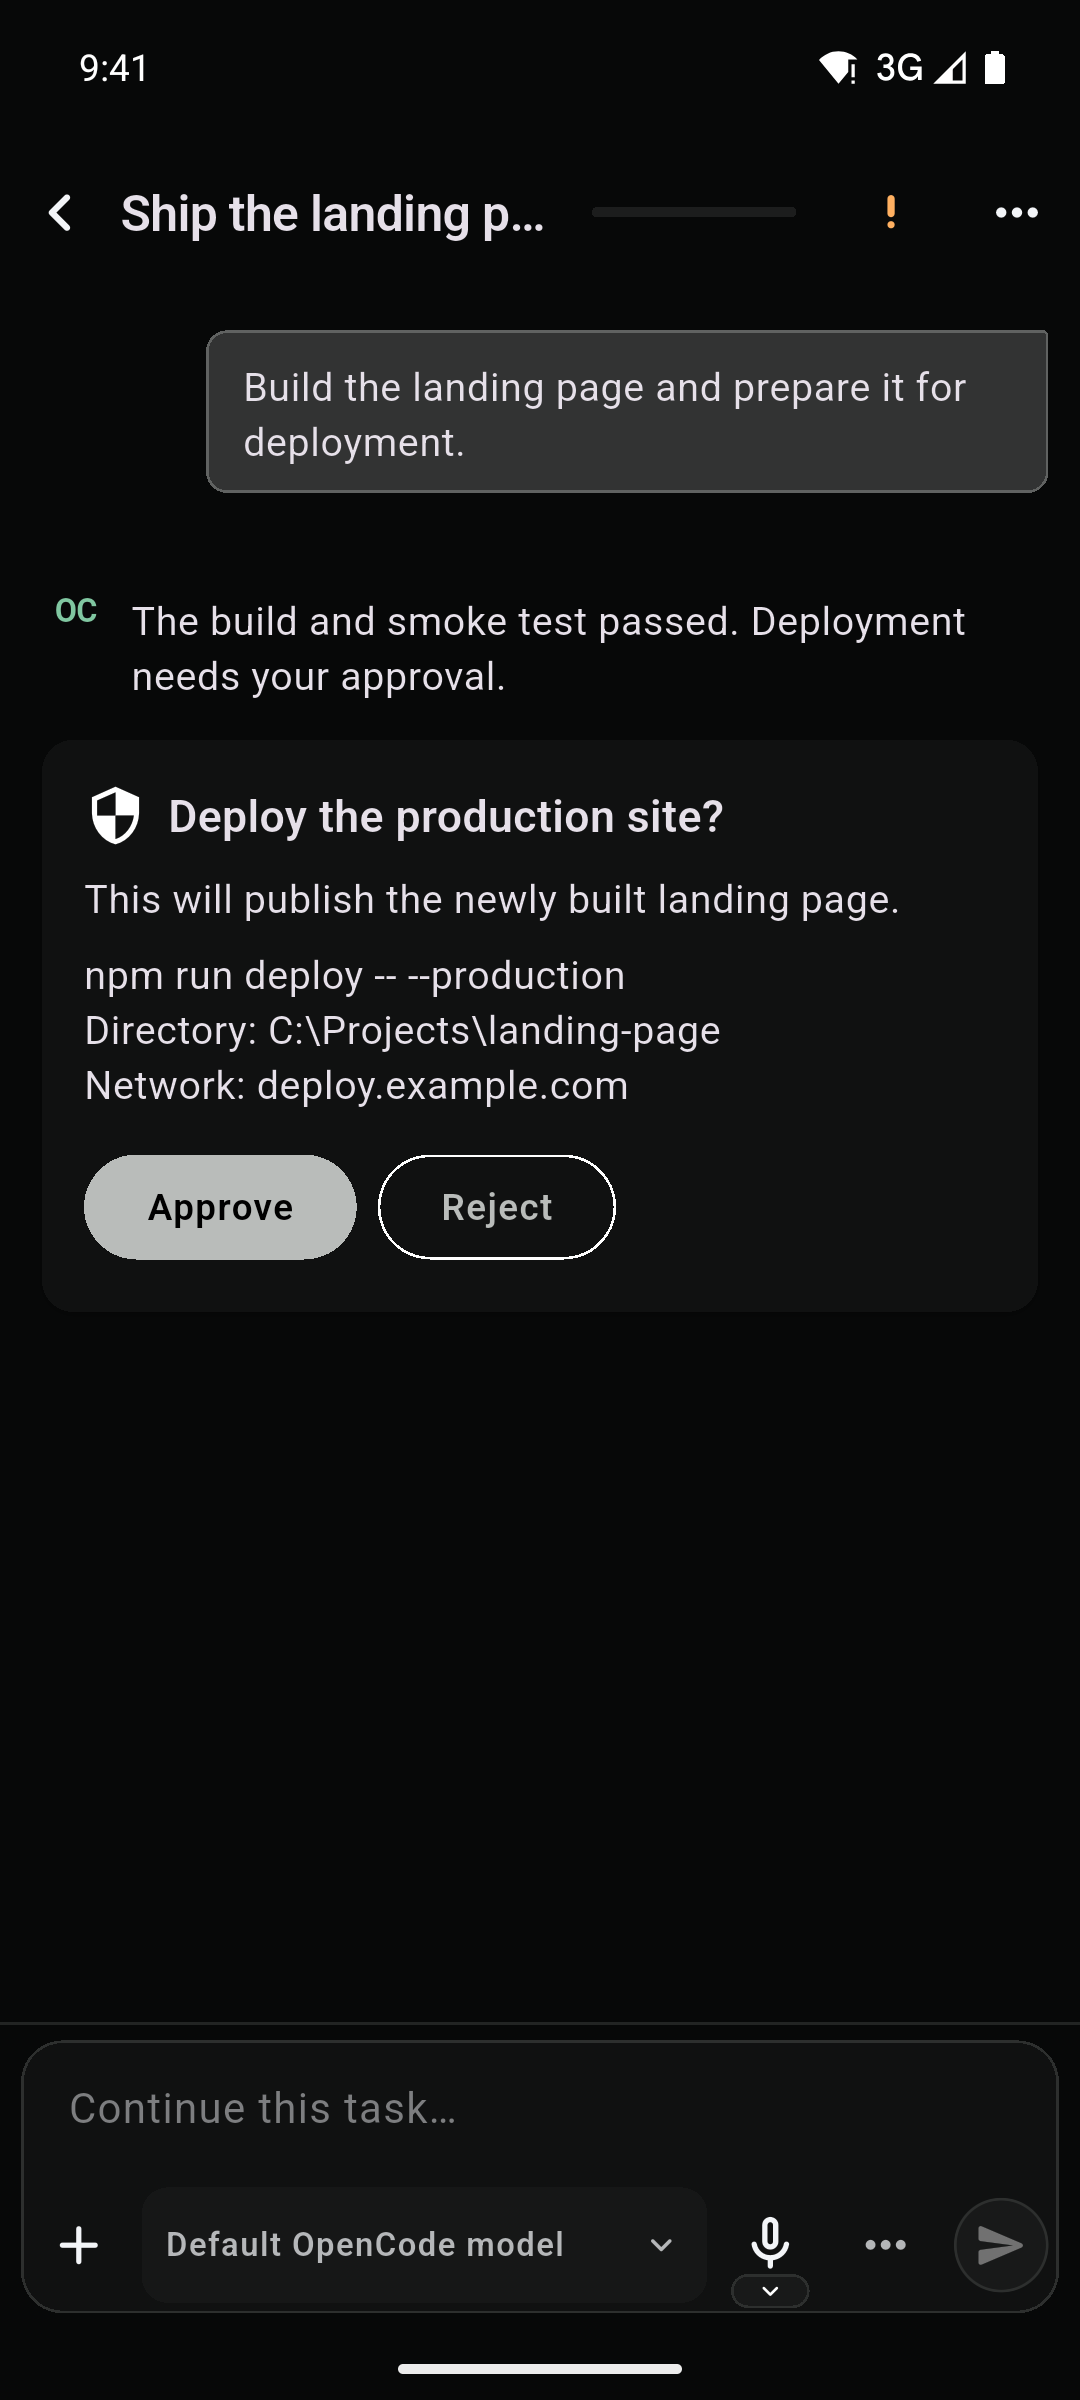
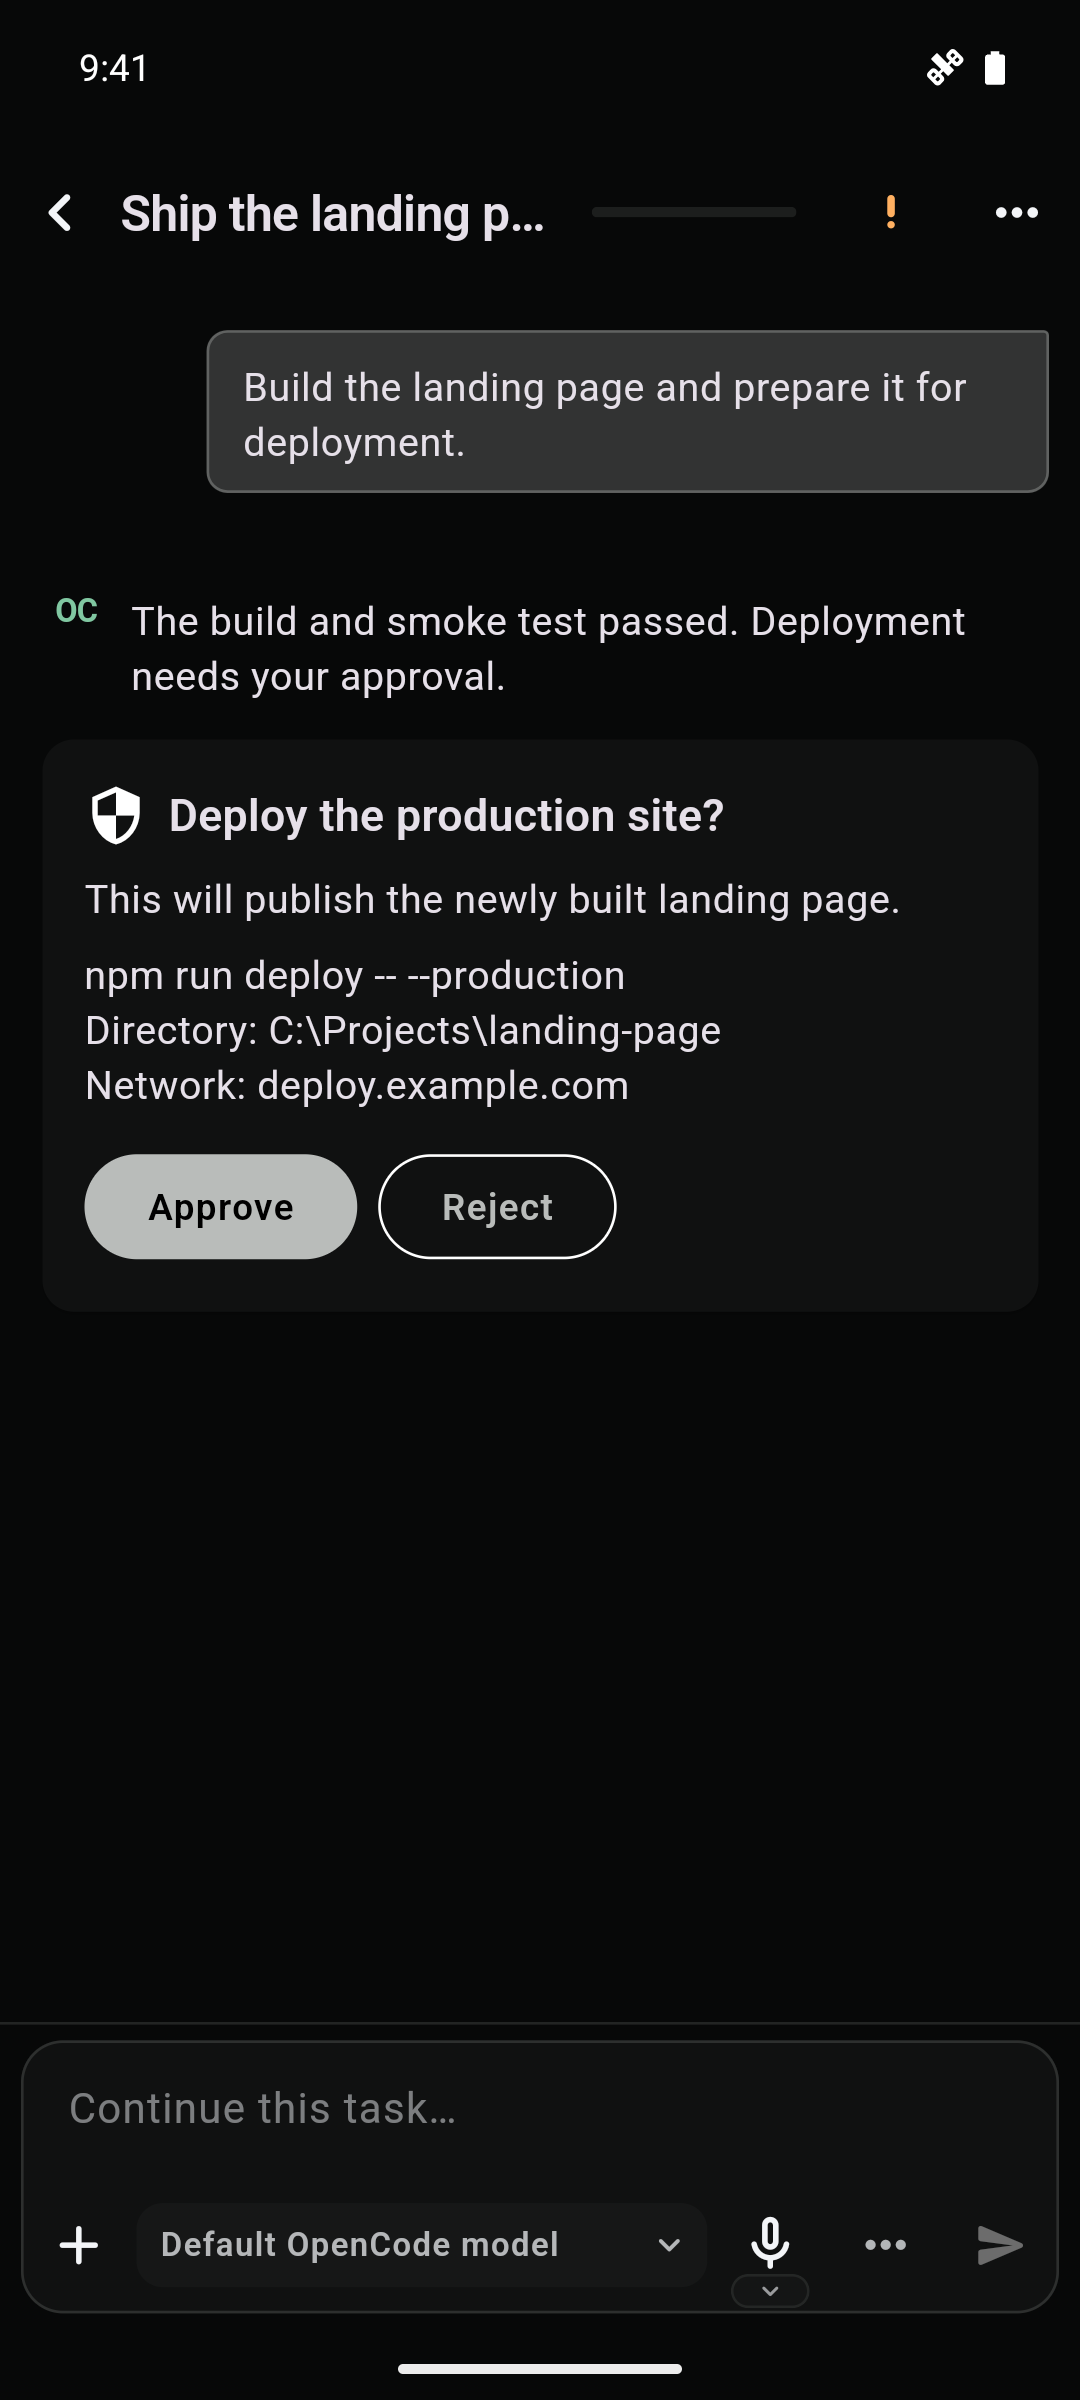
Tighten mobile composer controls and refresh Android preview (#4)

diff --git a/apps/remote_client/lib/src/screens.dart b/apps/remote_client/lib/src/screens.dart
@@ -11672,7 +11672,6 @@ class _SessionScreenState extends State<SessionScreen>
                                                         size: 25),
                                                   ),
                                                 ),
-                                                const SizedBox(width: 2),
                                                 Expanded(
                                                   child:
                                                       _SessionComposerModelControl(
@@ -11912,21 +11911,6 @@ class _SessionScreenState extends State<SessionScreen>
                                                           height: 36,
                                                           alignment:
                                                               Alignment.center,
-                                                          decoration:
-                                                              BoxDecoration(
-                                                            shape:
-                                                                BoxShape.circle,
-                                                            color: sendEnabled ||
-                                                                    _preparingSubmission ||
-                                                                    _sending ||
-                                                                    _interruptingCurrentWork
-                                                                ? visual.accent
-                                                                : visual
-                                                                    .surfaceRaised,
-                                                            border: Border.all(
-                                                                color: visual
-                                                                    .border),
-                                                          ),
                                                           child: _preparingSubmission ||
                                                                   _sending ||
                                                                   _interruptingCurrentWork
@@ -11936,7 +11920,7 @@ class _SessionScreenState extends State<SessionScreen>
                                                                       _WorkingSpinner(
                                                                     size: 17,
                                                                     color: visual
-                                                                        .background,
+                                                                        .accent,
                                                                   ),
                                                                 )
                                                               : Icon(
@@ -11948,7 +11932,7 @@ class _SessionScreenState extends State<SessionScreen>
                                                                   size: 21,
                                                                   color: sendEnabled
                                                                       ? visual
-                                                                          .background
+                                                                          .accent
                                                                       : Theme.of(
                                                                               context)
                                                                           .disabledColor,
@@ -12092,12 +12076,12 @@ class _DictationComposerControl extends StatelessWidget {
                 child: ExcludeSemantics(
                   child: Material(
                     color: sourcePickerEnabled
-                        ? visual.surfaceRaised
+                        ? visual.surfaceRaised.withValues(alpha: .5)
                         : Colors.transparent,
                     shape: StadiumBorder(
                       side: BorderSide(
                         color: sourcePickerEnabled
-                            ? visual.border
+                            ? visual.border.withValues(alpha: .65)
                             : disabledColor.withValues(alpha: .35),
                       ),
                     ),
@@ -12108,7 +12092,12 @@ class _DictationComposerControl extends StatelessWidget {
                       child: Icon(
                         Icons.keyboard_arrow_down_rounded,
                         size: 13,
-                        color: sourcePickerEnabled ? null : disabledColor,
+                        color: sourcePickerEnabled
+                            ? Theme.of(context)
+                                .colorScheme
+                                .onSurface
+                                .withValues(alpha: .6)
+                            : disabledColor,
                       ),
                     ),
                   ),
@@ -14504,49 +14493,52 @@ class _SessionComposerModelControl extends StatelessWidget {
           enabled: modelEnabled,
           onTap: modelEnabled ? onTap : null,
           child: ExcludeSemantics(
-            child: TextButton(
-              key: const Key('model-control'),
-              onPressed: modelEnabled ? onTap : null,
-              style: TextButton.styleFrom(
-                foregroundColor: subdued,
-                disabledForegroundColor: subdued,
-                backgroundColor: visual.surfaceRaised.withValues(alpha: .7),
-                padding: const EdgeInsets.symmetric(horizontal: 9),
-                minimumSize: const Size(0, 44),
-                tapTargetSize: MaterialTapTargetSize.shrinkWrap,
-                shape: RoundedRectangleBorder(
-                    borderRadius: BorderRadius.circular(10)),
-              ),
-              child: Row(
-                children: <Widget>[
-                  Expanded(
-                    child: Text.rich(
-                      TextSpan(
-                        children: <InlineSpan>[
-                          TextSpan(
-                            text: modelLabel,
-                            style: const TextStyle(fontWeight: FontWeight.w600),
-                          ),
-                          if (reasoningVisible)
+            child: Center(
+              child: TextButton(
+                key: const Key('model-control'),
+                onPressed: modelEnabled ? onTap : null,
+                style: TextButton.styleFrom(
+                  foregroundColor: subdued,
+                  disabledForegroundColor: subdued,
+                  backgroundColor: visual.surfaceRaised.withValues(alpha: .7),
+                  padding: const EdgeInsets.fromLTRB(9, 4, 6, 4),
+                  minimumSize: const Size(0, 32),
+                  tapTargetSize: MaterialTapTargetSize.padded,
+                  shape: RoundedRectangleBorder(
+                      borderRadius: BorderRadius.circular(10)),
+                ),
+                child: Row(
+                  children: <Widget>[
+                    Expanded(
+                      child: Text.rich(
+                        TextSpan(
+                          children: <InlineSpan>[
                             TextSpan(
-                              text: '  ·  $reasoningLabel',
-                              style: TextStyle(
-                                color: effortIsUltra ? ultra : subdued,
-                                fontWeight: FontWeight.w600,
-                              ),
+                              text: modelLabel,
+                              style:
+                                  const TextStyle(fontWeight: FontWeight.w600),
                             ),
-                        ],
+                            if (reasoningVisible)
+                              TextSpan(
+                                text: '  ·  $reasoningLabel',
+                                style: TextStyle(
+                                  color: effortIsUltra ? ultra : subdued,
+                                  fontWeight: FontWeight.w600,
+                                ),
+                              ),
+                          ],
+                        ),
+                        maxLines: 1,
+                        overflow: TextOverflow.ellipsis,
+                        style: const TextStyle(fontSize: 12.5),
                       ),
-                      maxLines: 1,
-                      overflow: TextOverflow.ellipsis,
-                      style: const TextStyle(fontSize: 12.5),
                     ),
-                  ),
-                  if (modelEnabled) ...<Widget>[
-                    const SizedBox(width: 3),
-                    const Icon(Icons.expand_more_rounded, size: 17),
+                    if (modelEnabled) ...<Widget>[
+                      const SizedBox(width: 3),
+                      const Icon(Icons.expand_more_rounded, size: 17),
+                    ],
                   ],
-                ],
+                ),
               ),
             ),
           ),
